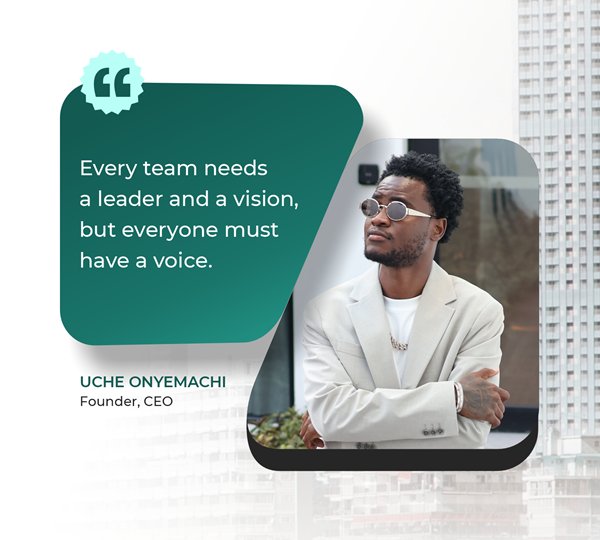
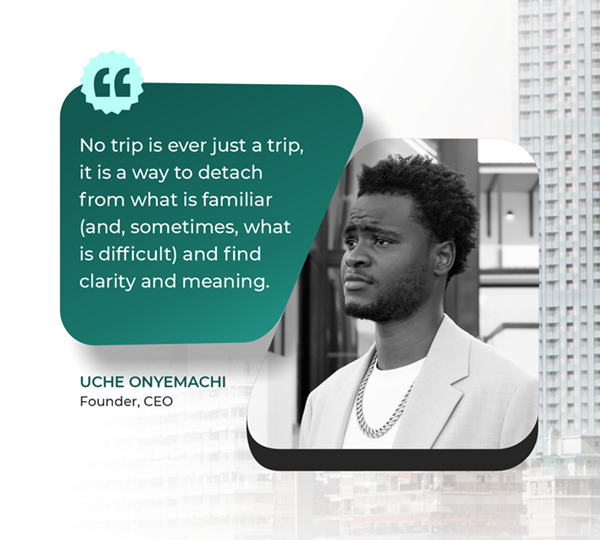
UDAED

Changed region(s): [[0.39, 0.237, 0.9, 0.8593], [0.12, 0.237, 0.51, 0.3852], [0.12, 0.4148, 0.48, 0.563]]

diff --git a/index.php b/index.php
@@ -154,7 +154,7 @@
 <div class="row d-flex justify-content-center align-items-center">
 
             <div class="col-md-6">
-                <img src="img/user/firstquotes.png" style="width: 100%; height: auto; padding: 10px;" alt="Left image">
+                <img src="img/user/firstQuotes.png" style="width: 100%; height: auto; padding: 10px;" alt="Left image">
             </div>
 
             <div class="col-md-6">

diff --git a/bio.php b/bio.php
@@ -43,9 +43,7 @@
   THE FOUNDER'S LETTER
 </h5>
 
-<h5 class="main-head" style="font-size: 14x;  cursor: pointer" data-bs-toggle="modal" data-bs-target="#imageModal">
-  THE FOUNDER'S LETTER
-</h5>
+
 <!-- Image Modal -->
 <div class="modal fade" id="imageModal" tabindex="-1" aria-labelledby="imageModalLabel" aria-hidden="true">
   <div class="modal-dialog modal-dialog-centered modal-xl">
